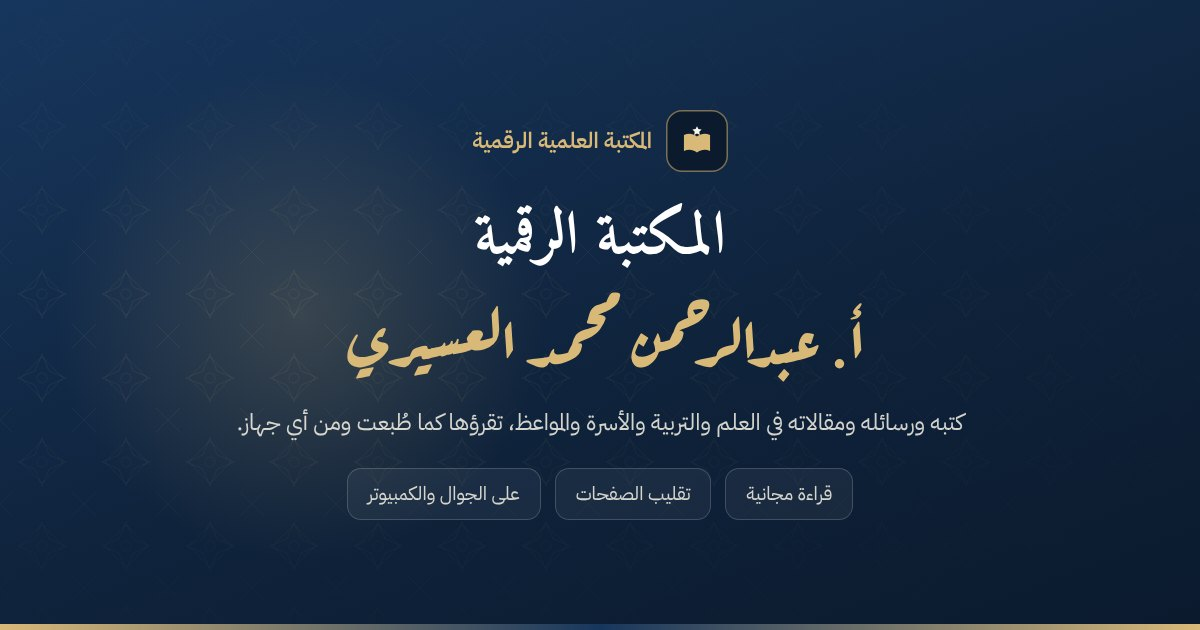
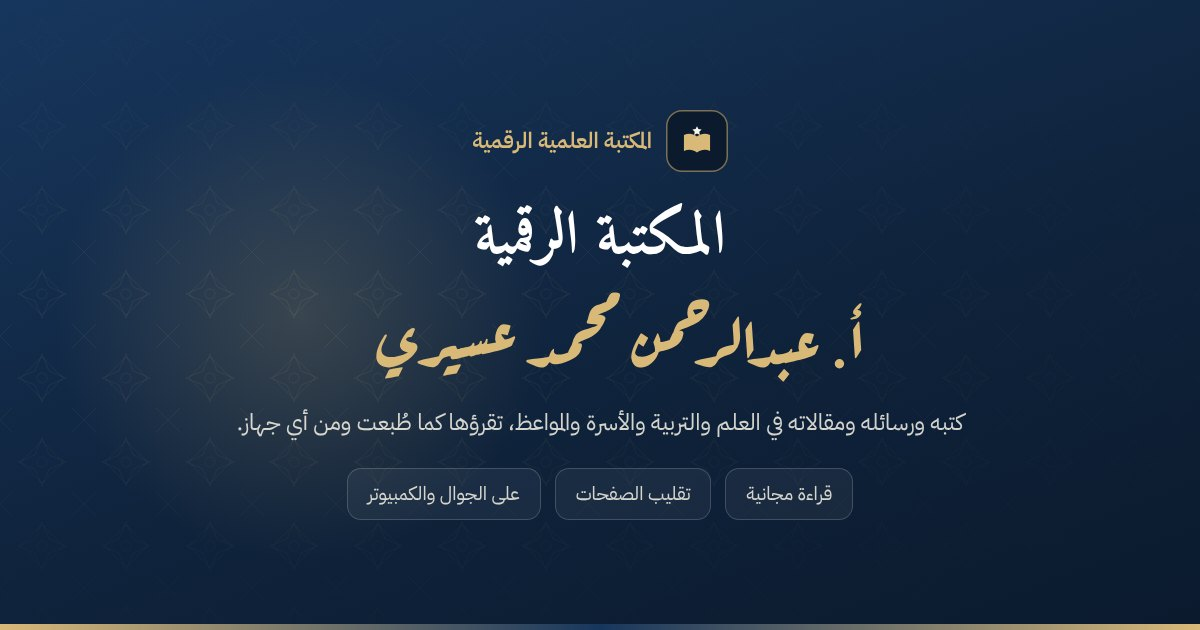
تعديل الاسم إلى «عسيري» في المكتبة والخط اليدوي ومحركات البحث والتطبيق
Claude-Session: https://claude.ai/code/session_01Hvw5DNAcJpEiaJgBS8qgUx

Changed region(s): [[0.2775, 0.4825, 0.4317, 0.6032]]

diff --git a/kitab/b01.html b/kitab/b01.html
@@ -3,20 +3,20 @@
 <head>
 <meta charset="utf-8">
 <meta name="viewport" content="width=device-width,initial-scale=1">
-<title>نقطة التحول - عنايتك بالقرآن بداية حياة جديدة — أ. عبدالرحمن محمد العسيري | مؤلفات أ. عبدالرحمن محمد العسيري</title>
-<meta name="description" content="كتاب «نقطة التحول - عنايتك بالقرآن بداية حياة جديدة» — أ. عبدالرحمن محمد العسيري، من تصنيف مواعظ، في ١٠٥ صفحات. اقرأه مجاناً بتقليب الصفحات في مؤلفات أ. عبدالرحمن محمد العسيري.">
+<title>نقطة التحول - عنايتك بالقرآن بداية حياة جديدة — أ. عبدالرحمن محمد عسيري | مؤلفات أ. عبدالرحمن محمد عسيري</title>
+<meta name="description" content="كتاب «نقطة التحول - عنايتك بالقرآن بداية حياة جديدة» — أ. عبدالرحمن محمد عسيري، من تصنيف مواعظ، في ١٠٥ صفحات. اقرأه مجاناً بتقليب الصفحات في مؤلفات أ. عبدالرحمن محمد عسيري.">
 <link rel="canonical" href="https://abdulrahman-alasiri.github.io/kitab/b01.html">
 <meta property="og:type" content="book">
 <meta property="og:locale" content="ar_SA">
-<meta property="og:site_name" content="مؤلفات أ. عبدالرحمن محمد العسيري">
-<meta property="og:title" content="نقطة التحول - عنايتك بالقرآن بداية حياة جديدة — أ. عبدالرحمن محمد العسيري">
-<meta property="og:description" content="كتاب «نقطة التحول - عنايتك بالقرآن بداية حياة جديدة» — أ. عبدالرحمن محمد العسيري، من تصنيف مواعظ، في ١٠٥ صفحات. اقرأه مجاناً بتقليب الصفحات في مؤلفات أ. عبدالرحمن محمد العسيري.">
+<meta property="og:site_name" content="مؤلفات أ. عبدالرحمن محمد عسيري">
+<meta property="og:title" content="نقطة التحول - عنايتك بالقرآن بداية حياة جديدة — أ. عبدالرحمن محمد عسيري">
+<meta property="og:description" content="كتاب «نقطة التحول - عنايتك بالقرآن بداية حياة جديدة» — أ. عبدالرحمن محمد عسيري، من تصنيف مواعظ، في ١٠٥ صفحات. اقرأه مجاناً بتقليب الصفحات في مؤلفات أ. عبدالرحمن محمد عسيري.">
 <meta property="og:url" content="https://abdulrahman-alasiri.github.io/kitab/b01.html">
 <meta property="og:image" content="https://abdulrahman-alasiri.github.io/covers/book-01.jpg">
 <meta property="og:image:alt" content="نقطة التحول - عنايتك بالقرآن بداية حياة جديدة">
 <meta name="twitter:card" content="summary_large_image">
 <meta name="twitter:title" content="نقطة التحول - عنايتك بالقرآن بداية حياة جديدة">
-<meta name="twitter:description" content="كتاب «نقطة التحول - عنايتك بالقرآن بداية حياة جديدة» — أ. عبدالرحمن محمد العسيري، من تصنيف مواعظ، في ١٠٥ صفحات. اقرأه مجاناً بتقليب الصفحات في مؤلفات أ. عبدالرحمن محمد العسيري.">
+<meta name="twitter:description" content="كتاب «نقطة التحول - عنايتك بالقرآن بداية حياة جديدة» — أ. عبدالرحمن محمد عسيري، من تصنيف مواعظ، في ١٠٥ صفحات. اقرأه مجاناً بتقليب الصفحات في مؤلفات أ. عبدالرحمن محمد عسيري.">
 <meta name="twitter:image" content="https://abdulrahman-alasiri.github.io/covers/book-01.jpg">
 <script type="application/ld+json">
 {
@@ -28,12 +28,12 @@
  "image": "https://abdulrahman-alasiri.github.io/covers/book-01.jpg",
  "isPartOf": {
   "@type": "WebSite",
-  "name": "مؤلفات أ. عبدالرحمن محمد العسيري",
+  "name": "مؤلفات أ. عبدالرحمن محمد عسيري",
   "url": "https://abdulrahman-alasiri.github.io/"
  },
  "author": {
   "@type": "Person",
-  "name": "عبدالرحمن محمد العسيري"
+  "name": "عبدالرحمن محمد عسيري"
  },
  "numberOfPages": 105,
  "genre": "مواعظ",
@@ -81,20 +81,20 @@
   <div class="wrap">
     <a class="brand" href="../" aria-label="الصفحة الرئيسية">
       <span class="brand-mark"><svg viewBox="0 0 64 64" aria-hidden="true"><path d="M10 22c8-3.5 15-2.5 22 2.5v27c-7-5-14-6-22-2.5z M54 22c-8-3.5-15-2.5-22 2.5v27c7-5 14-6 22-2.5z" style="fill:var(--t-accent)"/><path d="M32 7l2.4 4.9 5.4.8-3.9 3.8.9 5.4L32 19.4l-4.8 2.5.9-5.4-3.9-3.8 5.4-.8z" style="fill:var(--t-bg)"/></svg></span>
-      <span class="brand-txt has-art"><b class="sr">مؤلفات</b><small class="sr">أ. عبدالرحمن محمد العسيري</small><span class="name-art" role="img" aria-label="أ. عبدالرحمن محمد العسيري" style="--na:url(&quot;https://abdulrahman-alasiri.github.io/assets/name.svg&quot;)"></span></span>
+      <span class="brand-txt has-art"><b class="sr">مؤلفات</b><small class="sr">أ. عبدالرحمن محمد عسيري</small><span class="name-art" role="img" aria-label="أ. عبدالرحمن محمد عسيري" style="--na:url(&quot;https://abdulrahman-alasiri.github.io/assets/name.svg&quot;)"></span></span>
     </a>
   </div>
 </header>
 <main class="kb">
   <div class="wrap">
-    <p class="crumb"><a href="../">مؤلفات أ. عبدالرحمن محمد العسيري</a> ‹ مواعظ</p>
+    <p class="crumb"><a href="../">مؤلفات أ. عبدالرحمن محمد عسيري</a> ‹ مواعظ</p>
     <article class="kb-grid">
       <figure class="kb-cover"><img src="../covers/book-01.jpg" alt="نقطة التحول - عنايتك بالقرآن بداية حياة جديدة" width="600" height="848"></figure>
       <div class="kb-info">
         <h1>نقطة التحول - عنايتك بالقرآن بداية حياة جديدة</h1>
-        <p class="by">أ. عبدالرحمن محمد العسيري</p>
+        <p class="by">أ. عبدالرحمن محمد عسيري</p>
         
-        <dl><dt>المؤلف</dt><dd>أ. عبدالرحمن محمد العسيري</dd><dt>التصنيف</dt><dd><a href="../#library">مواعظ</a></dd><dt>عدد الصفحات</dt><dd>١٠٥ صفحات</dd><dt>تاريخ الإضافة</dt><dd><time datetime="2026-11-26">٢٦ نوفمبر ٢٠٢٦م</time></dd></dl>
+        <dl><dt>المؤلف</dt><dd>أ. عبدالرحمن محمد عسيري</dd><dt>التصنيف</dt><dd><a href="../#library">مواعظ</a></dd><dt>عدد الصفحات</dt><dd>١٠٥ صفحات</dd><dt>تاريخ الإضافة</dt><dd><time datetime="2026-11-26">٢٦ نوفمبر ٢٠٢٦م</time></dd></dl>
         <div class="kb-act">
           <a class="kb-read" href="../read.html?id=b01"><svg viewBox="0 0 24 24" fill="none" stroke="currentColor" stroke-width="2" stroke-linecap="round" stroke-linejoin="round" aria-hidden="true"><path d="M2 5.5C5 4 8.5 4.2 12 6.5v13c-3.5-2.3-7-2.5-10-1z M22 5.5C19 4 15.5 4.2 12 6.5v13c3.5-2.3 7-2.5 10-1z"/></svg>اقرأ الكتاب</a>
           <a class="kb-back" href="../">العودة للمكتبة ←</a>

diff --git a/kitab/b02.html b/kitab/b02.html
@@ -3,20 +3,20 @@
 <head>
 <meta charset="utf-8">
 <meta name="viewport" content="width=device-width,initial-scale=1">
-<title>عالم آخر - رحلة في حياة أهل القرآن — أ. عبدالرحمن محمد العسيري | مؤلفات أ. عبدالرحمن محمد العسيري</title>
-<meta name="description" content="كتاب «عالم آخر - رحلة في حياة أهل القرآن» — أ. عبدالرحمن محمد العسيري، من تصنيف مواعظ، في ٦١ صفحة. اقرأه مجاناً بتقليب الصفحات في مؤلفات أ. عبدالرحمن محمد العسيري.">
+<title>عالم آخر - رحلة في حياة أهل القرآن — أ. عبدالرحمن محمد عسيري | مؤلفات أ. عبدالرحمن محمد عسيري</title>
+<meta name="description" content="كتاب «عالم آخر - رحلة في حياة أهل القرآن» — أ. عبدالرحمن محمد عسيري، من تصنيف مواعظ، في ٦١ صفحة. اقرأه مجاناً بتقليب الصفحات في مؤلفات أ. عبدالرحمن محمد عسيري.">
 <link rel="canonical" href="https://abdulrahman-alasiri.github.io/kitab/b02.html">
 <meta property="og:type" content="book">
 <meta property="og:locale" content="ar_SA">
-<meta property="og:site_name" content="مؤلفات أ. عبدالرحمن محمد العسيري">
-<meta property="og:title" content="عالم آخر - رحلة في حياة أهل القرآن — أ. عبدالرحمن محمد العسيري">
-<meta property="og:description" content="كتاب «عالم آخر - رحلة في حياة أهل القرآن» — أ. عبدالرحمن محمد العسيري، من تصنيف مواعظ، في ٦١ صفحة. اقرأه مجاناً بتقليب الصفحات في مؤلفات أ. عبدالرحمن محمد العسيري.">
+<meta property="og:site_name" content="مؤلفات أ. عبدالرحمن محمد عسيري">
+<meta property="og:title" content="عالم آخر - رحلة في حياة أهل القرآن — أ. عبدالرحمن محمد عسيري">
+<meta property="og:description" content="كتاب «عالم آخر - رحلة في حياة أهل القرآن» — أ. عبدالرحمن محمد عسيري، من تصنيف مواعظ، في ٦١ صفحة. اقرأه مجاناً بتقليب الصفحات في مؤلفات أ. عبدالرحمن محمد عسيري.">
 <meta property="og:url" content="https://abdulrahman-alasiri.github.io/kitab/b02.html">
 <meta property="og:image" content="https://abdulrahman-alasiri.github.io/covers/book-02.jpg">
 <meta property="og:image:alt" content="عالم آخر - رحلة في حياة أهل القرآن">
 <meta name="twitter:card" content="summary_large_image">
 <meta name="twitter:title" content="عالم آخر - رحلة في حياة أهل القرآن">
-<meta name="twitter:description" content="كتاب «عالم آخر - رحلة في حياة أهل القرآن» — أ. عبدالرحمن محمد العسيري، من تصنيف مواعظ، في ٦١ صفحة. اقرأه مجاناً بتقليب الصفحات في مؤلفات أ. عبدالرحمن محمد العسيري.">
+<meta name="twitter:description" content="كتاب «عالم آخر - رحلة في حياة أهل القرآن» — أ. عبدالرحمن محمد عسيري، من تصنيف مواعظ، في ٦١ صفحة. اقرأه مجاناً بتقليب الصفحات في مؤلفات أ. عبدالرحمن محمد عسيري.">
 <meta name="twitter:image" content="https://abdulrahman-alasiri.github.io/covers/book-02.jpg">
 <script type="application/ld+json">
 {
@@ -28,12 +28,12 @@
  "image": "https://abdulrahman-alasiri.github.io/covers/book-02.jpg",
  "isPartOf": {
   "@type": "WebSite",
-  "name": "مؤلفات أ. عبدالرحمن محمد العسيري",
+  "name": "مؤلفات أ. عبدالرحمن محمد عسيري",
   "url": "https://abdulrahman-alasiri.github.io/"
  },
  "author": {
   "@type": "Person",
-  "name": "عبدالرحمن محمد العسيري"
+  "name": "عبدالرحمن محمد عسيري"
  },
  "numberOfPages": 61,
  "genre": "مواعظ",
@@ -81,20 +81,20 @@
   <div class="wrap">
     <a class="brand" href="../" aria-label="الصفحة الرئيسية">
       <span class="brand-mark"><svg viewBox="0 0 64 64" aria-hidden="true"><path d="M10 22c8-3.5 15-2.5 22 2.5v27c-7-5-14-6-22-2.5z M54 22c-8-3.5-15-2.5-22 2.5v27c7-5 14-6 22-2.5z" style="fill:var(--t-accent)"/><path d="M32 7l2.4 4.9 5.4.8-3.9 3.8.9 5.4L32 19.4l-4.8 2.5.9-5.4-3.9-3.8 5.4-.8z" style="fill:var(--t-bg)"/></svg></span>
-      <span class="brand-txt has-art"><b class="sr">مؤلفات</b><small class="sr">أ. عبدالرحمن محمد العسيري</small><span class="name-art" role="img" aria-label="أ. عبدالرحمن محمد العسيري" style="--na:url(&quot;https://abdulrahman-alasiri.github.io/assets/name.svg&quot;)"></span></span>
+      <span class="brand-txt has-art"><b class="sr">مؤلفات</b><small class="sr">أ. عبدالرحمن محمد عسيري</small><span class="name-art" role="img" aria-label="أ. عبدالرحمن محمد عسيري" style="--na:url(&quot;https://abdulrahman-alasiri.github.io/assets/name.svg&quot;)"></span></span>
     </a>
   </div>
 </header>
 <main class="kb">
   <div class="wrap">
-    <p class="crumb"><a href="../">مؤلفات أ. عبدالرحمن محمد العسيري</a> ‹ مواعظ</p>
+    <p class="crumb"><a href="../">مؤلفات أ. عبدالرحمن محمد عسيري</a> ‹ مواعظ</p>
     <article class="kb-grid">
       <figure class="kb-cover"><img src="../covers/book-02.jpg" alt="عالم آخر - رحلة في حياة أهل القرآن" width="600" height="848"></figure>
       <div class="kb-info">
         <h1>عالم آخر - رحلة في حياة أهل القرآن</h1>
-        <p class="by">أ. عبدالرحمن محمد العسيري</p>
+        <p class="by">أ. عبدالرحمن محمد عسيري</p>
         
-        <dl><dt>المؤلف</dt><dd>أ. عبدالرحمن محمد العسيري</dd><dt>التصنيف</dt><dd><a href="../#library">مواعظ</a></dd><dt>عدد الصفحات</dt><dd>٦١ صفحة</dd><dt>تاريخ الإضافة</dt><dd><time datetime="2026-11-26">٢٦ نوفمبر ٢٠٢٦م</time></dd></dl>
+        <dl><dt>المؤلف</dt><dd>أ. عبدالرحمن محمد عسيري</dd><dt>التصنيف</dt><dd><a href="../#library">مواعظ</a></dd><dt>عدد الصفحات</dt><dd>٦١ صفحة</dd><dt>تاريخ الإضافة</dt><dd><time datetime="2026-11-26">٢٦ نوفمبر ٢٠٢٦م</time></dd></dl>
         <div class="kb-act">
           <a class="kb-read" href="../read.html?id=b02"><svg viewBox="0 0 24 24" fill="none" stroke="currentColor" stroke-width="2" stroke-linecap="round" stroke-linejoin="round" aria-hidden="true"><path d="M2 5.5C5 4 8.5 4.2 12 6.5v13c-3.5-2.3-7-2.5-10-1z M22 5.5C19 4 15.5 4.2 12 6.5v13c3.5-2.3 7-2.5 10-1z"/></svg>اقرأ الكتاب</a>
           <a class="kb-back" href="../">العودة للمكتبة ←</a>

diff --git a/index.html b/index.html
@@ -5,23 +5,23 @@
 <meta http-equiv="Cache-Control" content="no-cache">
 <meta name="viewport" content="width=device-width,initial-scale=1">
 <!-- SHARE:START (يُولَّد تلقائياً: python3 tools/configure.py رابط-الموقع) -->
-<title>المكتبة الرقمية — مؤلفات أ. عبدالرحمن محمد العسيري</title>
-<meta name="description" content="مكتبة رقمية مجانية لـمؤلفات أ. عبدالرحمن محمد العسيري: كتبه ورسائله ومقالاته في العلم والتربية والأسرة والمواعظ، تقرؤها كما طُبعت ومن أي جهاز.، تُقرأ بتقليب الصفحات على الجوال والكمبيوتر.">
+<title>المكتبة الرقمية — مؤلفات أ. عبدالرحمن محمد عسيري</title>
+<meta name="description" content="مكتبة رقمية مجانية لـمؤلفات أ. عبدالرحمن محمد عسيري: كتبه ورسائله ومقالاته في العلم والتربية والأسرة والمواعظ، تقرؤها كما طُبعت ومن أي جهاز.، تُقرأ بتقليب الصفحات على الجوال والكمبيوتر.">
 <meta property="og:type" content="website">
 <meta property="og:locale" content="ar_SA">
-<meta property="og:site_name" content="مؤلفات أ. عبدالرحمن محمد العسيري">
-<meta property="og:title" content="المكتبة الرقمية — مؤلفات أ. عبدالرحمن محمد العسيري">
-<meta property="og:description" content="مكتبة رقمية مجانية لـمؤلفات أ. عبدالرحمن محمد العسيري: كتبه ورسائله ومقالاته في العلم والتربية والأسرة والمواعظ، تقرؤها كما طُبعت ومن أي جهاز.، تُقرأ بتقليب الصفحات على الجوال والكمبيوتر.">
+<meta property="og:site_name" content="مؤلفات أ. عبدالرحمن محمد عسيري">
+<meta property="og:title" content="المكتبة الرقمية — مؤلفات أ. عبدالرحمن محمد عسيري">
+<meta property="og:description" content="مكتبة رقمية مجانية لـمؤلفات أ. عبدالرحمن محمد عسيري: كتبه ورسائله ومقالاته في العلم والتربية والأسرة والمواعظ، تقرؤها كما طُبعت ومن أي جهاز.، تُقرأ بتقليب الصفحات على الجوال والكمبيوتر.">
 <meta property="og:url" content="https://abdulrahman-alasiri.github.io/">
 <meta property="og:image" content="https://abdulrahman-alasiri.github.io/assets/og.jpg">
 <meta property="og:image:secure_url" content="https://abdulrahman-alasiri.github.io/assets/og.jpg">
 <meta property="og:image:type" content="image/jpeg">
 <meta property="og:image:width" content="1200">
 <meta property="og:image:height" content="630">
-<meta property="og:image:alt" content="المكتبة الرقمية — مؤلفات أ. عبدالرحمن محمد العسيري">
+<meta property="og:image:alt" content="المكتبة الرقمية — مؤلفات أ. عبدالرحمن محمد عسيري">
 <meta name="twitter:card" content="summary_large_image">
-<meta name="twitter:title" content="المكتبة الرقمية — مؤلفات أ. عبدالرحمن محمد العسيري">
-<meta name="twitter:description" content="مكتبة رقمية مجانية لـمؤلفات أ. عبدالرحمن محمد العسيري: كتبه ورسائله ومقالاته في العلم والتربية والأسرة والمواعظ، تقرؤها كما طُبعت ومن أي جهاز.، تُقرأ بتقليب الصفحات على الجوال والكمبيوتر.">
+<meta name="twitter:title" content="المكتبة الرقمية — مؤلفات أ. عبدالرحمن محمد عسيري">
+<meta name="twitter:description" content="مكتبة رقمية مجانية لـمؤلفات أ. عبدالرحمن محمد عسيري: كتبه ورسائله ومقالاته في العلم والتربية والأسرة والمواعظ، تقرؤها كما طُبعت ومن أي جهاز.، تُقرأ بتقليب الصفحات على الجوال والكمبيوتر.">
 <meta name="twitter:image" content="https://abdulrahman-alasiri.github.io/assets/og.jpg">
 <link rel="canonical" href="https://abdulrahman-alasiri.github.io/">
 <!-- SHARE:END -->
@@ -37,7 +37,7 @@
 <link rel="apple-touch-icon" sizes="180x180" href="assets/apple-touch-icon.png">
 <meta name="mobile-web-app-capable" content="yes">
 <meta name="apple-mobile-web-app-capable" content="yes">
-<meta name="apple-mobile-web-app-title" content="أ. العسيري">
+<meta name="apple-mobile-web-app-title" content="مكتبة عسيري">
 <meta name="apple-mobile-web-app-status-bar-style" content="default">
 <script>if("serviceWorker" in navigator)addEventListener("load",function(){navigator.serviceWorker.register("sw.js").catch(function(){})})</script>
 <!-- PWA:END -->
@@ -165,7 +165,7 @@
 <noscript>
 <style>#shelf>noscript{display:block;grid-column:1/-1}.seo-ns{line-height:1.9}.seo-ns h2{font-family:var(--display);color:var(--emerald);margin:0 0 6px}.seo-ns h3{color:var(--gold);margin:22px 0 6px;font-size:18px}.seo-ns ul{margin:0;padding-inline-start:22px}.seo-ns a{color:var(--ink)}</style>
 <section class="seo-ns" aria-label="قائمة الكتب">
-<h2>مؤلفات أ. عبدالرحمن محمد العسيري — أ. عبدالرحمن محمد العسيري</h2>
+<h2>مؤلفات أ. عبدالرحمن محمد عسيري — أ. عبدالرحمن محمد عسيري</h2>
 <p>كتبه ورسائله ومقالاته في العلم والتربية والأسرة والمواعظ، تقرؤها كما طُبعت ومن أي جهاز: كتابان تُقرأ مجاناً بتقليب الصفحات على الجوال والكمبيوتر.</p>
 <h3>مواعظ</h3><ul><li><a href="kitab/b01.html">نقطة التحول - عنايتك بالقرآن بداية حياة جديدة</a></li><li><a href="kitab/b02.html">عالم آخر - رحلة في حياة أهل القرآن</a></li></ul>
 </section>

diff --git a/read.html b/read.html
@@ -5,22 +5,22 @@
 <meta http-equiv="Cache-Control" content="no-cache">
 <meta name="viewport" content="width=device-width,initial-scale=1,viewport-fit=cover">
 <!-- SHARE:START (يُولَّد تلقائياً: python3 tools/configure.py رابط-الموقع) -->
-<title>المكتبة الرقمية — مؤلفات أ. عبدالرحمن محمد العسيري</title>
-<meta name="description" content="مكتبة رقمية مجانية لـمؤلفات أ. عبدالرحمن محمد العسيري: كتبه ورسائله ومقالاته في العلم والتربية والأسرة والمواعظ، تقرؤها كما طُبعت ومن أي جهاز.، تُقرأ بتقليب الصفحات على الجوال والكمبيوتر.">
+<title>المكتبة الرقمية — مؤلفات أ. عبدالرحمن محمد عسيري</title>
+<meta name="description" content="مكتبة رقمية مجانية لـمؤلفات أ. عبدالرحمن محمد عسيري: كتبه ورسائله ومقالاته في العلم والتربية والأسرة والمواعظ، تقرؤها كما طُبعت ومن أي جهاز.، تُقرأ بتقليب الصفحات على الجوال والكمبيوتر.">
 <meta property="og:type" content="website">
 <meta property="og:locale" content="ar_SA">
-<meta property="og:site_name" content="مؤلفات أ. عبدالرحمن محمد العسيري">
-<meta property="og:title" content="المكتبة الرقمية — مؤلفات أ. عبدالرحمن محمد العسيري">
-<meta property="og:description" content="مكتبة رقمية مجانية لـمؤلفات أ. عبدالرحمن محمد العسيري: كتبه ورسائله ومقالاته في العلم والتربية والأسرة والمواعظ، تقرؤها كما طُبعت ومن أي جهاز.، تُقرأ بتقليب الصفحات على الجوال والكمبيوتر.">
+<meta property="og:site_name" content="مؤلفات أ. عبدالرحمن محمد عسيري">
+<meta property="og:title" content="المكتبة الرقمية — مؤلفات أ. عبدالرحمن محمد عسيري">
+<meta property="og:description" content="مكتبة رقمية مجانية لـمؤلفات أ. عبدالرحمن محمد عسيري: كتبه ورسائله ومقالاته في العلم والتربية والأسرة والمواعظ، تقرؤها كما طُبعت ومن أي جهاز.، تُقرأ بتقليب الصفحات على الجوال والكمبيوتر.">
 <meta property="og:image" content="https://abdulrahman-alasiri.github.io/assets/og.jpg">
 <meta property="og:image:secure_url" content="https://abdulrahman-alasiri.github.io/assets/og.jpg">
 <meta property="og:image:type" content="image/jpeg">
 <meta property="og:image:width" content="1200">
 <meta property="og:image:height" content="630">
-<meta property="og:image:alt" content="المكتبة الرقمية — مؤلفات أ. عبدالرحمن محمد العسيري">
+<meta property="og:image:alt" content="المكتبة الرقمية — مؤلفات أ. عبدالرحمن محمد عسيري">
 <meta name="twitter:card" content="summary_large_image">
-<meta name="twitter:title" content="المكتبة الرقمية — مؤلفات أ. عبدالرحمن محمد العسيري">
-<meta name="twitter:description" content="مكتبة رقمية مجانية لـمؤلفات أ. عبدالرحمن محمد العسيري: كتبه ورسائله ومقالاته في العلم والتربية والأسرة والمواعظ، تقرؤها كما طُبعت ومن أي جهاز.، تُقرأ بتقليب الصفحات على الجوال والكمبيوتر.">
+<meta name="twitter:title" content="المكتبة الرقمية — مؤلفات أ. عبدالرحمن محمد عسيري">
+<meta name="twitter:description" content="مكتبة رقمية مجانية لـمؤلفات أ. عبدالرحمن محمد عسيري: كتبه ورسائله ومقالاته في العلم والتربية والأسرة والمواعظ، تقرؤها كما طُبعت ومن أي جهاز.، تُقرأ بتقليب الصفحات على الجوال والكمبيوتر.">
 <meta name="twitter:image" content="https://abdulrahman-alasiri.github.io/assets/og.jpg">
 <!-- SHARE:END -->
 
@@ -35,7 +35,7 @@
 <link rel="apple-touch-icon" sizes="180x180" href="assets/apple-touch-icon.png">
 <meta name="mobile-web-app-capable" content="yes">
 <meta name="apple-mobile-web-app-capable" content="yes">
-<meta name="apple-mobile-web-app-title" content="أ. العسيري">
+<meta name="apple-mobile-web-app-title" content="مكتبة عسيري">
 <meta name="apple-mobile-web-app-status-bar-style" content="default">
 <script>if("serviceWorker" in navigator)addEventListener("load",function(){navigator.serviceWorker.register("sw.js").catch(function(){})})</script>
 <!-- PWA:END -->

diff --git a/admin.html b/admin.html
@@ -16,7 +16,7 @@
 <link rel="apple-touch-icon" sizes="180x180" href="assets/apple-touch-icon.png">
 <meta name="mobile-web-app-capable" content="yes">
 <meta name="apple-mobile-web-app-capable" content="yes">
-<meta name="apple-mobile-web-app-title" content="أ. العسيري">
+<meta name="apple-mobile-web-app-title" content="مكتبة عسيري">
 <meta name="apple-mobile-web-app-status-bar-style" content="default">
 <script>if("serviceWorker" in navigator)addEventListener("load",function(){navigator.serviceWorker.register("sw.js").catch(function(){})})</script>
 <!-- PWA:END -->
